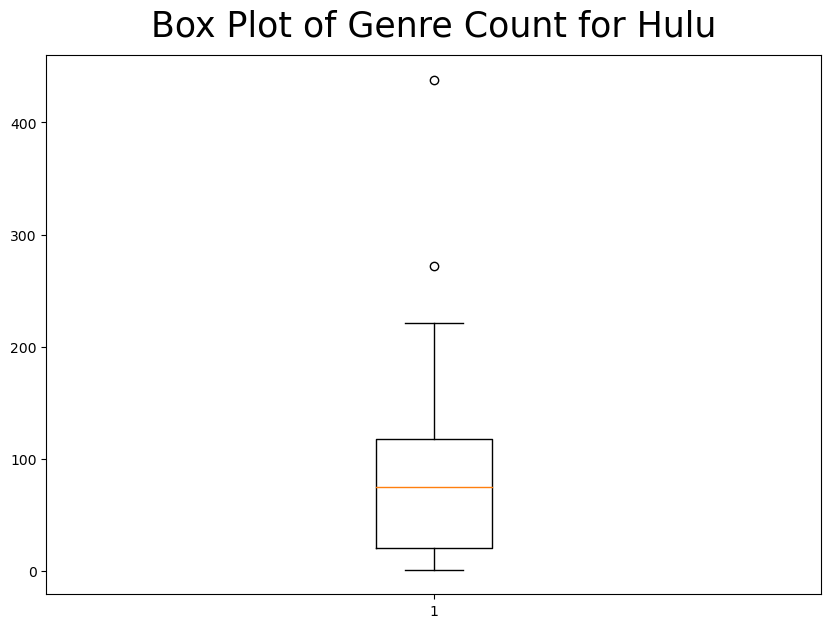
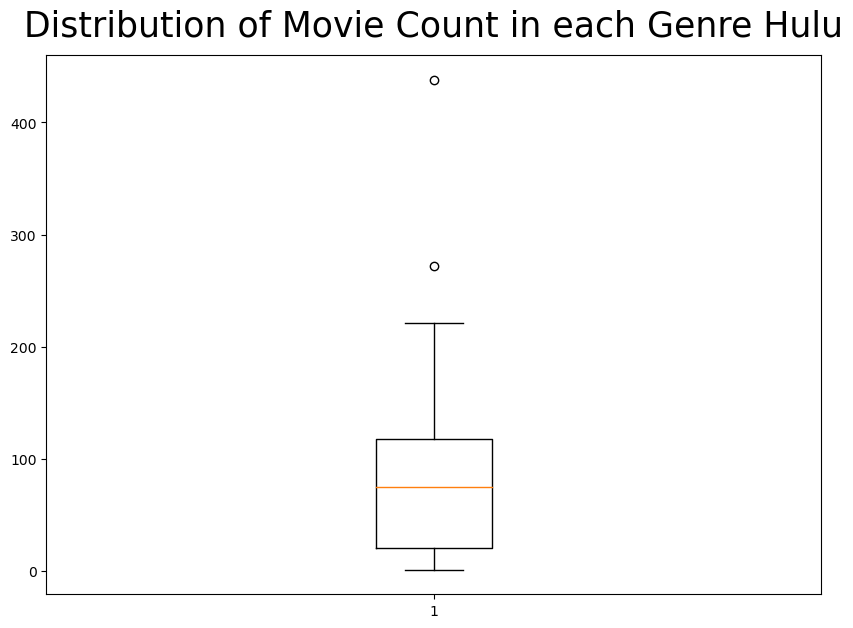
added readme

diff --git a/analysis.py b/analysis.py
@@ -37,7 +37,7 @@ def load_imdb(imdb, movies):
 
 def count(data, mov_or_show, site):
     """
-    Prints count of different titles each platform has available in the
+    Return count of different titles each platform has available in the
     given dataset
     """
     print(site, ': In this dataset there are...')
@@ -50,7 +50,7 @@ def count(data, mov_or_show, site):
 
 def avg_rating(data, site):
     """
-    Print overall average rating for given streaming platforms' available
+    Return overall average rating for given streaming platforms' available
     content given in data dataset
     """
     # Convert rotten tomatoes to 1-10 scale to match imdb scale
@@ -74,7 +74,7 @@ def avg_rating(data, site):
 
 def genre_count(data, site):
     """
-    Given a dataframe and streaming platform, prints the names and count
+    Given a dataframe and streaming platform, return the names and count
     of unique genres available on the platform
     """
     df = data.loc[data[site] == 1, 'Genres']
@@ -127,7 +127,7 @@ def predict_rating(data, feats):
 
 def unique_list(data, site):
     """
-    Returns list of unique genres from given dataset and specified
+    Returns unique genres from given dataset and specified
     streaming platform
     """
     df = data.loc[data[site] == 1, 'Genres']
@@ -142,7 +142,8 @@ def movs_per_genre(data, site):
     Given dataset and streaming platform, prints total number of movies
     available for each genre in the site, and the standard deviation. Also
     create a box chart of the count of movies for each genre for the given site
-    and a bar chart of the percentage of movies for each genre for the given site. 
+    and a bar chart of the percentage of movies for each genre for the given
+    site.
     """
     genres = data.loc[data[site] == 1, data.columns == 'Genres']
     df = split_genre(genres)
@@ -164,20 +165,24 @@ def movs_per_genre(data, site):
     # box plot
     fig1 = plt.figure(figsize=(10, 7))
     plt.boxplot(percent_list)
-    plt.title('Box Plot of Genre Percentage for ' + site, fontsize=25, y=1.02)
+    plt.title('Distribution of Genre Percentage for ' + site,
+              fontsize=25, y=1.02)
     location2 = 'results/' + site.lower() + '_genre_boxplot.png'
     fig1.savefig(location2, bbox_inches='tight')
     fig2 = plt.figure(figsize=(10, 7))
     plt.boxplot(count_list)
-    plt.title('Box Plot of Genre Count for ' + site, fontsize=25, y=1.02)
+    plt.title('Distribution of Movie Count in each Genre ' + site,
+              fontsize=25, y=1.02)
     location3 = 'results/' + site.lower() + '_genrecount_boxplot.png'
     fig2.savefig(location3, bbox_inches='tight')
     # genre bar chart
     fig, ax = plt.subplots(figsize=(56, 15))
     ax.bar(genre_list, percent_list, width=0.6)
     plt.xlabel('Genre Types', fontsize=30, labelpad=15)
-    plt.ylabel('Percent of Movies', fontsize=30, labelpad=15)
-    plt.title('The Percent for Each Genre in ' + site, fontsize=35, y=1.02)
+    plt.ylabel('Percent of Total Movies that Fit in these Genres',
+               fontsize=30, labelpad=15)
+    plt.title('Genre Distribution for ' + site,
+              fontsize=35, y=1.02)
     plt.tick_params(labelsize=20, pad=7)
     location = 'results/' + site.lower() + '_genre_chart.png'
     fig.savefig(location, bbox_inches='tight')

diff --git a/README.md b/README.md
@@ -1,1 +1,25 @@
-# finalproject163
+# Analyzing Streaming Platforms
+
+## Instructions
+Simply run our analysis.py file to run our modules, produce our plots, and print our analysis. Run our test.py file to test modules with return statements on our small datasets. 
+The datasets we used are linked below.
+### Datasets
+IMDb Movies Extensive Dataset
+Link: https://www.kaggle.com/stefanoleone992/imdb-extensive-dataset
+Selection of Movies for Streaming Services
+Link: https://www.kaggle.com/ruchi798/movies-on-netflix-prime-video-hulu-and-disney
+Selection of TV Shows for Streaming Services
+Link: https://www.kaggle.com/ruchi798/tv-shows-on-netflix-prime-video-hulu-and-disney
+
+### Libraries used
+pandas, sklearn, matplotlib.pyplot, statistics
+
+### To better navigate our methods...
+load_movs_shows: merges movies and tv shows datasets
+load_imdb: merges imdb and movies datasets
+count: prints returns of number of unique titles in movies and tv shows merged dataset, or any other dataset you input
+avg_rating: returns overall average rating for given streaming platforms movies and dataset
+genre_count: returns names and count of unique genre in given platform and dataset
+predict_rating: machine learning method, returns tuple of predicted imdb rating mean squared error for training and test set
+unique_list: returns unique genres from given dataset and specified platform
+movs_per_genre: generates and saves plots for each streaming platform and includes plots like box chart for counts and percentages of movies in each genre for given sites as well as bar charts for genre distribution based on percentages as well
